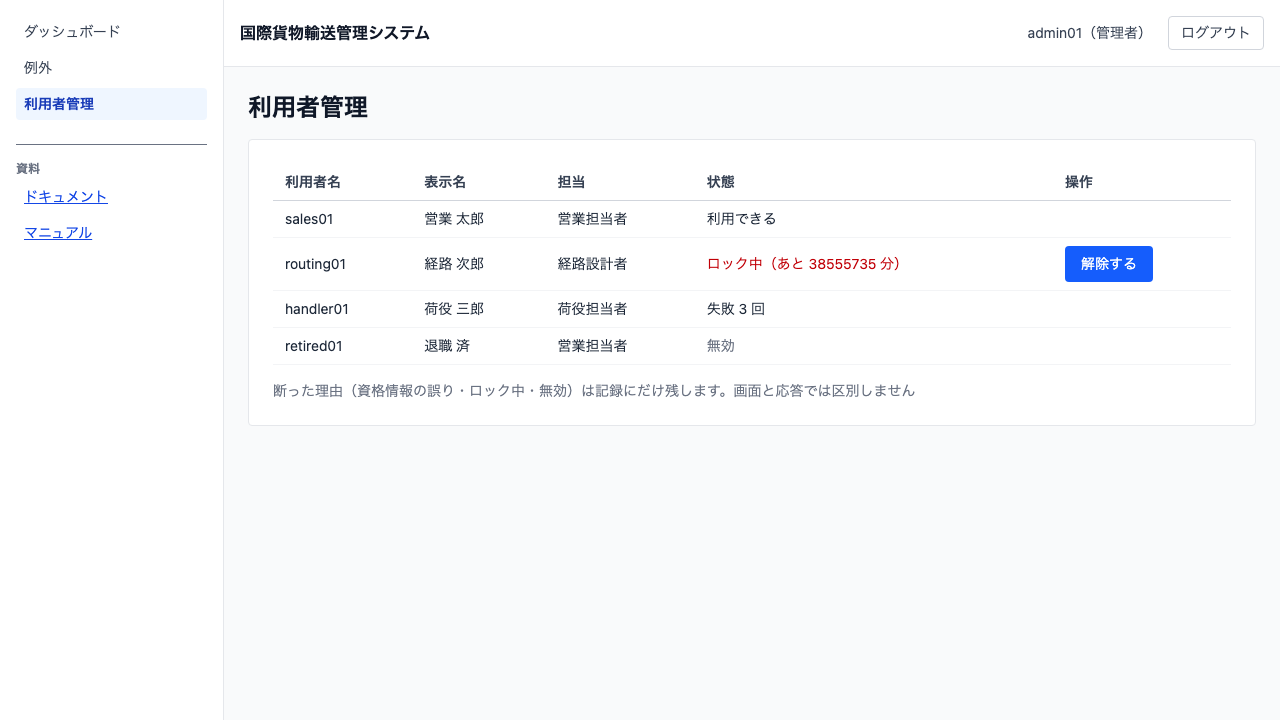
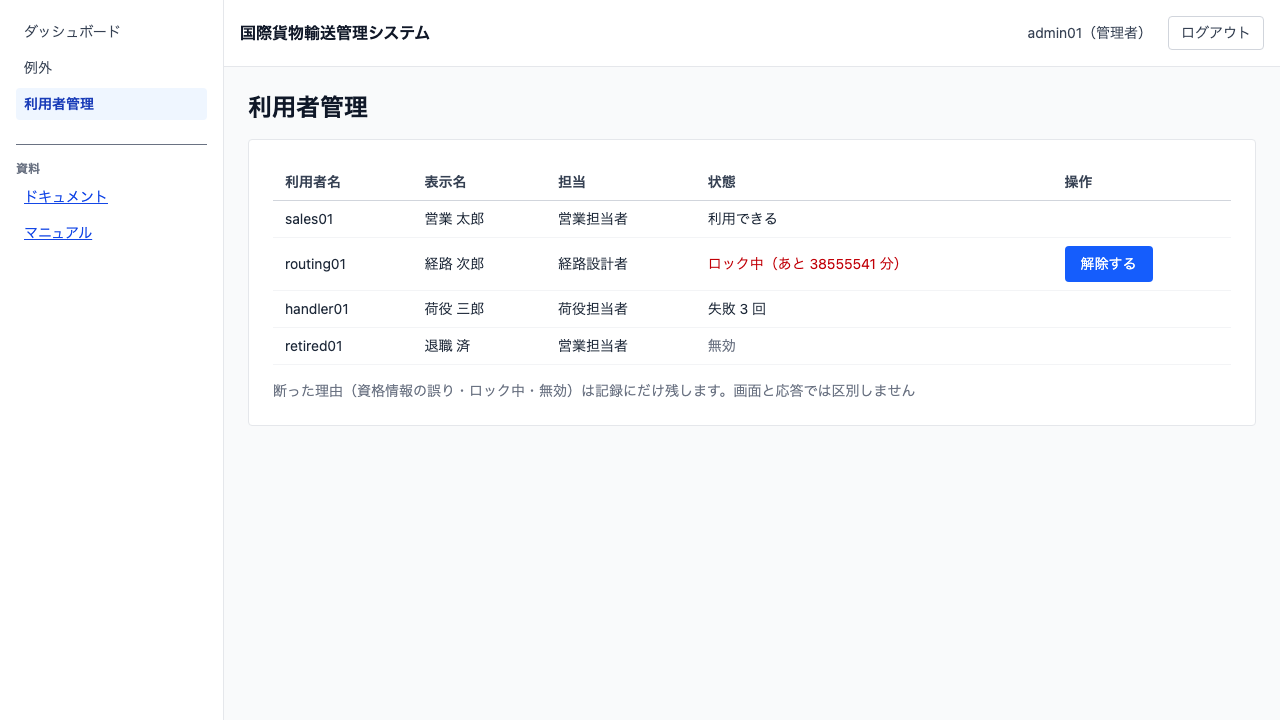
docs(close): IT13 の索引・ナビゲーションとキャプチャを同期する
IT13 の計画・ふりかえり・完了報告書・実装レビュー・ADR-0015/0016・
マニュアル 17 章を mkdocs.yml と各 index.md に載せる。
要確認一覧のキャプチャは billingms の読み口を足したことで実際に赤くなったため、
manual-capture.spec.ts のルートモックを読み口の数だけ回すようにして撮り直した。

diff --git a/apps/cargo-tracker/frontend/e2e/manual-capture.spec.ts b/apps/cargo-tracker/frontend/e2e/manual-capture.spec.ts
@@ -375,15 +375,20 @@ test.describe('マニュアルの画面キャプチャ', () => {
         body: JSON.stringify(SAMPLE_ATTENTION),
       }),
     );
-    // 要確認は BC ごとの読み口を画面が束ねる。**片方を用意しないと画面全体が
+    // 要確認は BC ごとの読み口を画面が束ねる。**1 つでも用意しないと画面全体が
     // 失敗になる**（束ねる側はどれか 1 つでも取れないと出さない）。
-    await page.route('**/api/v1/routing/attention-items**', (route) =>
-      route.fulfill({
-        status: 200,
-        contentType: 'application/json',
-        body: JSON.stringify({ items: [] }),
-      }),
-    );
+    // **読み口を足したらここにも足す**——IT13 で billingms を足したとき、
+    // このキャプチャが実際に赤くなった。
+    for (const path of ['**/api/v1/routing/attention-items**',
+      '**/api/v1/billing/attention-items**']) {
+      await page.route(path, (route) =>
+        route.fulfill({
+          status: 200,
+          contentType: 'application/json',
+          body: JSON.stringify({ items: [] }),
+        }),
+      );
+    }
   });
 
   async function signIn(page: import('@playwright/test').Page) {

diff --git a/docs/development/cargo-tracker/index.md b/docs/development/cargo-tracker/index.md
@@ -28,8 +28,8 @@ cargo-tracker プロジェクトの開発ドキュメントです。
 | IT10 引取と遅延例外 | [計画](iteration_plan-10.md) | [ふりかえり](retrospective-10.md) | [完了報告書](iteration_report-10.md) | **完了**（7/7 SP・100%。10 回連続）。引き渡しが精算と予約へ伝わり、遅延例外の起票から解決まで通った。引き継ぎ枠 3 件 + 負債枠を**繰越ゼロで返済**（6 回連続）。**Try T3 を 3 回目でようやく守り**、US ごとのクラスタ E2E が 2 件の欠陥を出した。**クラスタ E2E は通しで 18 件すべて緑**（IT9 は 15/16）。クローズのレビューで**高 12 件**——5 件は複数視点が独立に指摘。**フルビルドが本物の欠陥を 2 件**出した |
 | IT11 例外・誤配 | [計画](iteration_plan-11.md) | [ふりかえり](retrospective-11.md) | [完了報告書](iteration_report-11.md) | **完了**（10/10 SP・100%。11 回連続）。US20 破損・紛失 / US28 誤配検知・再設計。**終盤の最初**——新しい集約を作らず、荷役 → 誤配検知 → 追跡の例外 → 予約の経路状態 → 現在地起点の再設計を 1 本で通した。引き継ぎ枠 2 件 + 負債枠 6 件を**繰越ゼロで返済**（7 回連続）。**クラスタ E2E が実欠陥 2 件**、レビューが**高 9 件**（うち 3 件は「片方にだけ書いた」形）。**Try T6 を 3 IT 目で達成**——手立てを `.gitmessage` に変えた |
 | IT12 通関申告 | [計画](iteration_plan-12.md) | [ふりかえり](retrospective-12.md) | [完了報告書](iteration_report-12.md) | **完了**（6/6 SP・100%。12 回連続）。US29 通関申告。**Release 1.1 完了**。handlingms → trackingms → 引取のガードの 3 サービス連鎖が通った。引き継ぎ枠 2 件 + 負債枠 2 件を消化（8 回連続で繰越ゼロ）。**枠 A（DLQ）は一部未達**——処理の列が全体で 1 本のまま。**正典を 3 か所直した**（履歴は Event Store から読めない・列は使わない・共有カーネルには置かない）。クラスタ E2E が実欠陥 1 件、レビューが**高 3 件**（記録はあるのに読み口が繋がっていない形が 2 件）、**CI が時限式のフィクスチャ**を出した |
-| IT13 料金算出・割引 | [計画](iteration_plan-13.md) | — | — | **計画済み**（8 SP + 引き継ぎ枠 2 + 負債枠 2）。US21 輸送料金を算出する / US22 法人割引を適用する。**Release 2.0 の最初**——billingms が初めて集約を持つ。引取済の予約から請求書ができ、法人割引が入り、輸出は免税になる。例外は根拠を指してから調整する |
-| IT13〜IT15 | 未作成 | — | — | 未着手 |
+| IT13 料金算出・法人割引 | [計画](iteration_plan-13.md) | [ふりかえり](retrospective-13.md) | [完了報告書](iteration_report-13.md) | **完了**（8/8 SP・100%。13 回連続）。US21・US22。**Release 2.0 の最初**で、billingms が初めて集約を持った。引き継ぎ枠 2 件 + 負債枠 2 件を消化（9 回連続で繰越ゼロ）。**IT12 の「この版に手立てが無い」が誤りだった**——処理の列は `@SequencingPolicy` で分けられた。ADR-0015・ADR-0016 を起票。クラスタ E2E が実欠陥 2 件、レビューが**高 18 件**——最重は **Try T8 で置いた規約検査 3 本が 1 件も走っていなかった**こと |
+| IT14〜IT15 | 未作成 | — | — | 未着手 |
 
 ## 補足
 
@@ -53,3 +53,6 @@ cargo-tracker プロジェクトの開発ドキュメントです。
 * [イテレーション 10 ふりかえり](./retrospective-10.md)
 * [イテレーション 12 完了報告書](./iteration_report-12.md)
 * [イテレーション 12 ふりかえり](./retrospective-12.md)
+* [イテレーション 13 計画](./iteration_plan-13.md)
+* [イテレーション 13 完了報告書](./iteration_report-13.md)
+* [イテレーション 13 ふりかえり](./retrospective-13.md)

diff --git a/docs/adr/cargo-tracker/index.md b/docs/adr/cargo-tracker/index.md
@@ -23,4 +23,6 @@ cargo-tracker プロジェクトのADRドキュメントです。
 * [ADR-0011 追跡番号は推測されにくい形式で採る](./0011-tracking-number-is-hard-to-guess.md) - 認証なしで照会できる追跡番号を連番から衝突検査つきの乱数へ改め、正典の形式にそろえる。ADR-0010 決定 2 の採り方を訂正する。
 * [ADR-0012 CargoSnapshot は TrackingInitializedEvent から作る](./0012-cargo-snapshot-from-tracking-initialized.md) - handlingms が予定ルートの判定に使う CargoSnapshot の元イベントを、購読できる契約イベントに決め直す。
 * [ADR-0013 共有カーネルが例外の対応表を持つ](./0013-shared-kernel-holds-the-error-mapping.md) - ドメイン例外を HTTP へ写す対応表を shared.interfaces.rest に置く。共有カーネルにはドメインと契約だけを置く原則の、意図した例外である。
-* [ADR-0014 書けないイベントは退避して、処理を止めない](./0014-poison-events-are-parked-not-blocking.md) - 投影が書けなかったイベントを dead_letter_entry へ退避し、Event Processor を生かしたままにする。1 件の不正イベントで後続が全部届かなくなる形をやめる。
+* [ADR-0014 書けないイベントは退避して、処理を止めない](./0014-poison-events-are-parked-not-blocking.md) - 投影が書けなかったイベントを dead_letter_entry へ退避し、Event Processor を生かしたままにする。1 件の不正イベントで後続が全部届かなくなる形をやめる。**IT13 で決定 4（処理の列を業務の識別子で分ける）を追加**。
+* [ADR-0015 営業日の数え方は共有カーネルが持つ](./0015-business-day-counting-lives-in-the-shared-kernel.md) - HolidayCalendar を handlingms から共有カーネルへ移し、数える国を輸入港の UN/LOCODE から決める。国別分岐が本番の経路で一度も踏まれていなかった。
+* [ADR-0016 料率は設定に置き、見積と請求で同じものを読む](./0016-rates-live-in-configuration.md) - 基準運賃・地域係数・貨物種別係数・税率を application.yml に置く。検査のフィクスチャと起動したアプリの料率が一致することを検査で固定する。

diff --git a/docs/index.md b/docs/index.md
@@ -20,8 +20,8 @@
 | [設計](./design/index.md) | アーキテクチャ、モデル、テスト、非機能の整理 | cargo-tracker: 設計 10 件作成済み（draft） |
 | [開発](./development/index.md) | リリース計画、イテレーション計画、進捗管理 | cargo-tracker: **IT12 完了**（累計 100 SP・達成率 100%・12 回連続）。**Release 0.1 完了**、**Release 1.0 完了**、**Release 1.1 完了**。リリース計画・開発戦略・IT1〜IT12 の計画/ふりかえり/完了報告書・リリース完了報告書 0.1 |
 | [運用](./operation/index.md) | 環境構築、デプロイ、運用手順の整理 | `index.md` を整備済み |
-| [レビュー](./review/index.md) | 分析・開発レビュー結果の記録 | 14 件作成済み（分析 1 件 + cargo-tracker 13 件。設計レビューと IT1〜IT12 の実装レビュー） |
-| [ADR](./adr/index.md) | Architecture Decision Records の管理 | cargo-tracker: 14 件作成済み（IT12 で ADR-0014「毒イベントは退避して止めない」を追加） |
+| [レビュー](./review/index.md) | 分析・開発レビュー結果の記録 | 15 件作成済み（分析 1 件 + cargo-tracker 14 件。設計レビューと IT1〜IT13 の実装レビュー） |
+| [ADR](./adr/index.md) | Architecture Decision Records の管理 | cargo-tracker: 16 件作成済み（IT13 で ADR-0015「営業日の数え方は共有カーネルが持つ」・ADR-0016「料率は設定に置き、見積と請求で同じものを読む」を追加） |
 | [記事](./article/index.md) | モノリスアーキテクチャ実装比較（13 章）・関数型ドメインモデリング（11 章）・実践 AI 駆動開発（15 章）・XP によるドメイン駆動設計の実践（14 章） | 53 件作成済み |
 | [参照元ソース](./article/source/README.md) | 記事が引用する 10 言語の実装コードと java-2 の実装・一次資料 | 3,849 ファイル配置済み |
 | [リファレンス](./reference/index.md) | 開発ガイドラインやベストプラクティス | 30 件のドキュメントを配置 |
